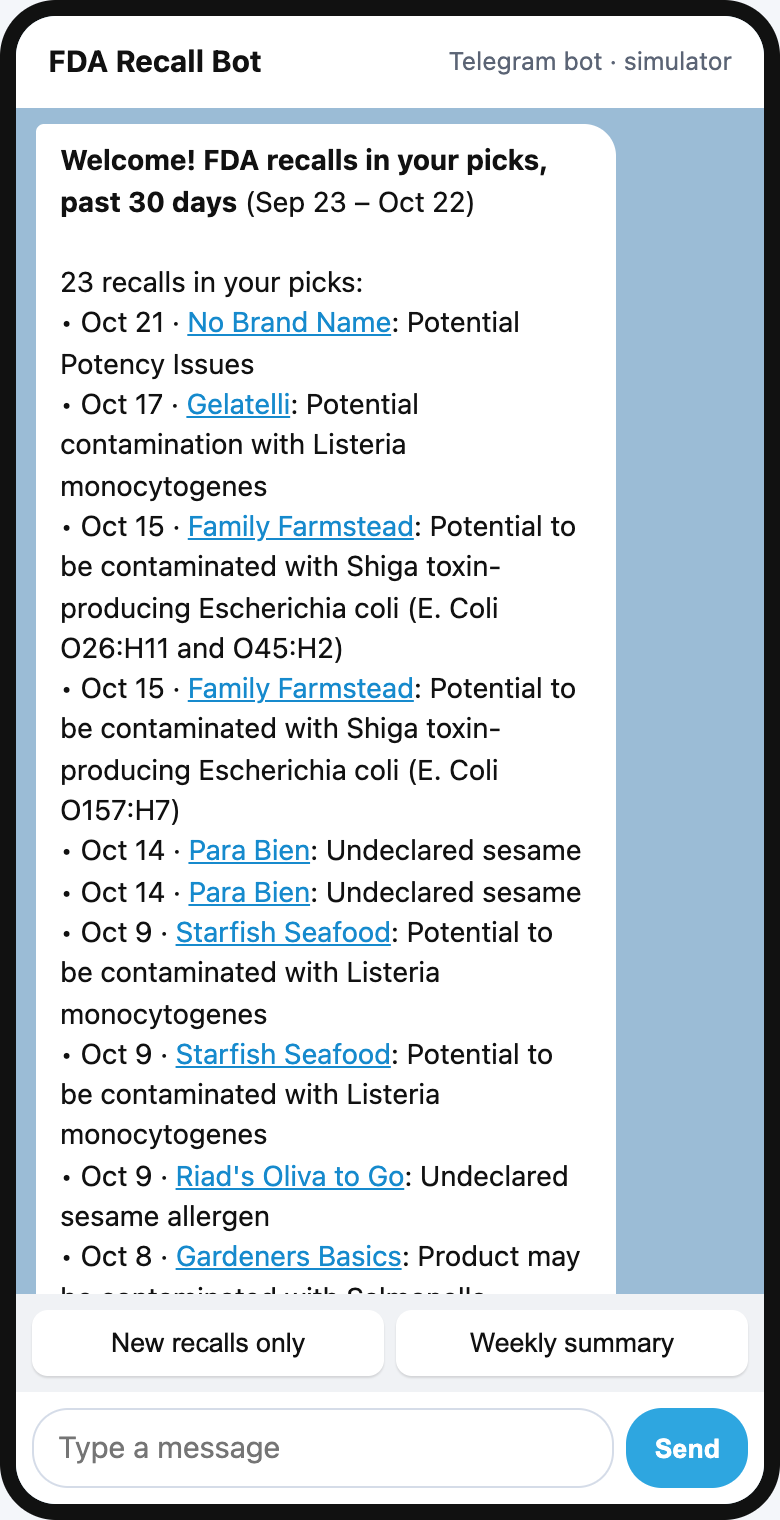
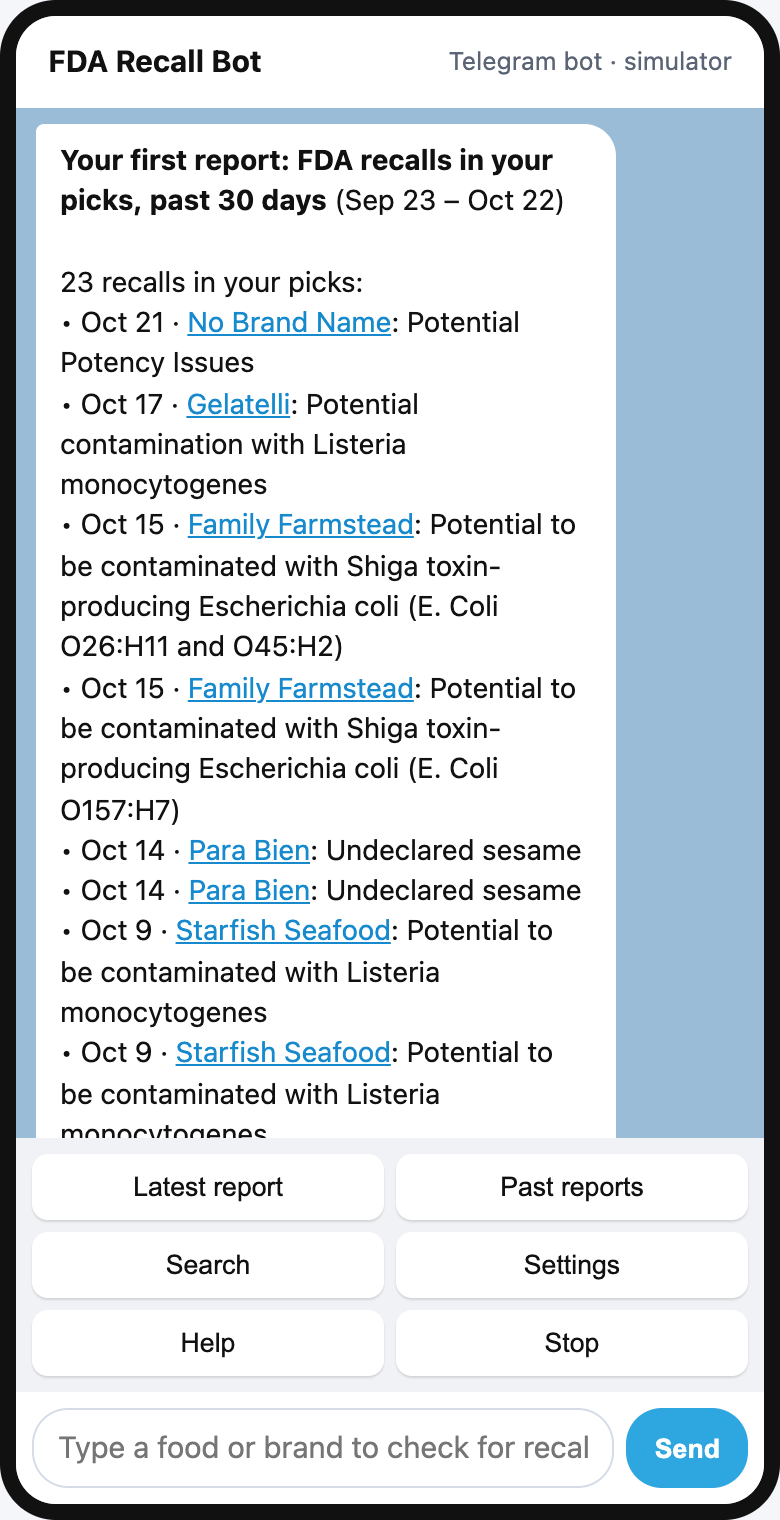
Send the 30-day first report after signup finishes, not before the last question

diff --git a/bot/core.js b/bot/core.js
@@ -93,7 +93,7 @@ Always check the lot codes and dates on the FDA notice before throwing anything 
 
 // ---------- conversation ----------
 // Returns { user, messages }: user === null means delete the record.
-// Signup: pick categories -> a welcome report of the past 30 days -> New recalls only or Weekly summary.
+// Signup: pick categories -> New recalls only or Weekly summary -> All set, then a welcome report of the past 30 days.
 // Settings later runs the same steps without the welcome report.
 export function onFollow(now) {
   const user = { step: 'groups', freq: null, groups: [], created: now, lastSent: null };
@@ -123,12 +123,8 @@ export function onText(user, input, ctx) {
     }
     if (is(t, 'done')) {
       if (!user.groups.length) return { user, messages: [askGroups(user)] };
-      const u = { ...user, step: 'freq', welcomed: true };
-      if (user.welcomed) return { user: u, messages: [askFrequency(`Your picks: ${groupNames(u)}.`)] };
-      // First signup: show what they'd have missed, then ask how to keep them posted.
-      const end = day(ctx.now);
-      const welcome = buildReport(ctx.data, u, { from: addDays(end, -29), to: end, title: 'Welcome! FDA recalls in your picks, past 30 days' });
-      return { user: u, messages: [...welcome.messages, askFrequency(null)] };
+      const u = { ...user, step: 'freq' };
+      return { user: u, messages: [askFrequency(`Your picks: ${groupNames(u)}.`)] };
     }
     const g = GROUPS.find((x) => clean(x.label) === t);
     if (g) {
@@ -143,8 +139,13 @@ export function onText(user, input, ctx) {
     if (!user.groups.length) { const u = { ...user, step: 'groups' }; return { user: u, messages: [askGroups(u)] }; }
     if (is(t, 'daily') || is(t, 'weekly')) {
       // New recalls count from now on (signup), so nobody gets the welcome report again.
-      const u = { ...user, freq: is(t, 'daily') ? 'daily' : 'weekly', step: 'done', lastSent: user.lastSent || ctx.now };
-      return { user: u, messages: [text(`All set. You'll get ${howOften(u)}.\n\nYour picks: ${groupNames(u)}.\n\nTip: type any food or brand, like "broccoli" or "Gelatelli", to see its FDA recalls from the past year.`, MAIN)] };
+      const u = { ...user, freq: is(t, 'daily') ? 'daily' : 'weekly', step: 'done', lastSent: user.lastSent || ctx.now, welcomed: true };
+      const allSet = `All set. You'll get ${howOften(u)}.\n\nYour picks: ${groupNames(u)}.\n\nTip: type any food or brand, like "broccoli" or "Gelatelli", to see its FDA recalls from the past year.`;
+      if (user.welcomed) return { user: u, messages: [text(allSet, MAIN)] };
+      // First signup (or /start): once they're set up, show what FDA recalled in their picks over the past 30 days.
+      const end = day(ctx.now);
+      const welcome = buildReport(ctx.data, u, { from: addDays(end, -29), to: end, title: 'Your first report: FDA recalls in your picks, past 30 days' });
+      return { user: u, messages: [text(`${allSet}\n\nHere's your first report:`, MAIN), ...welcome.messages] };
     }
     return { user, messages: [askFrequency('Tap one of these:')] };
   }

diff --git a/bot/worker.js b/bot/worker.js
@@ -90,7 +90,7 @@ async function handle(env, update) {
   const user = await getUser(env, id);
   const result = !user && /^\/start\b/.test(msg.text)
     ? onFollow(now)
-    : onText(user, msg.text, { now, data: user && user.step !== 'freq' ? await loadData() : null }); // reports, search, the welcome report
+    : onText(user, msg.text, { now, data: user ? await loadData() : null }); // reports, search, the welcome report (cached 10 min)
   // Browsing and searching don't change anything, so only write when the settings did (KV writes are the tightest free limit).
   if (JSON.stringify(result.user) !== JSON.stringify(user)) await saveUser(env, id, result.user);
   await sendAll(env, id, result.messages);

diff --git a/bot/sim.html b/bot/sim.html
@@ -97,7 +97,7 @@ function render(messages, from = 'bot') {
 async function say(t) {
   if (!t.trim()) return;
   render([{ type: 'text', html: esc(t) }], 'me');
-  const ready = user && user.step !== 'freq';
+  const ready = !!user;
   const r = onText(user, t, { now: new Date().toISOString(), data: ready ? await getData() : null });
   user = r.user; show(user); render(r.messages);
 }

diff --git a/README.md b/README.md
@@ -4,13 +4,13 @@ A Telegram bot that tells you about FDA recalls for the things you care about (g
 
 **Try it:** [open the bot in Telegram](https://t.me/FDA_Recall_Bot) · [web report](https://el9995.github.io/FDA-Recall-Bot/) · [bot simulator](https://el9995.github.io/FDA-Recall-Bot/bot/sim.html) (the full conversation in your browser, no Telegram needed)
 
-| Welcome report | Search | Slides | Full-screen photo |
+| First report | Search | Slides | Full-screen photo |
 |---|---|---|---|
 | ![Signup ends with a report of the past 30 days in your picks](docs/images/bot-welcome.png) | ![Typing "broccoli" finds its recalls from the past year](docs/images/bot-search.png) | ![Each recall as a photo-first slide, opened inside Telegram](docs/images/slide.png) | ![Tap a photo to read the lot code](docs/images/slide-fullscreen.png) |
 
 ## What it does
 
-- **Signup in three taps:** pick categories, get a welcome report of the past 30 days, then choose **New recalls only** (a message only when FDA posts something new in your picks, checked every morning) or **Weekly summary** (every Monday).
+- **Signup in three taps:** pick categories, choose **New recalls only** (a message only when FDA posts something new in your picks, checked every morning) or **Weekly summary** (every Monday), and get a first report of the past 30 days right away.
 - **Short reports:** every recall linked to its FDA notice, an album of FDA's product photos, and an **Open slides** button that opens the full deck inside Telegram as a Mini App.
 - **Photo first:** people recognize the package before they read the reason, so each slide leads with the photo. Tap it for full screen and swipe to the next photo, which is often the lot code.
 - **Past reports and search:** any of the last 8 weeks or 12 months, or type any food or brand to search every recall from the past year. Recalls FDA has closed are marked "closed by FDA", since a product already at home can still be affected.

diff --git a/bot/SETUP.md b/bot/SETUP.md
@@ -50,7 +50,7 @@ Then open `https://t.me/<your bot's username>` and tap **Start**.
 
 ## How it behaves
 
-- **Start:** asks which recalls (Groceries, Pet food, Supplements, Baby food, Cosmetics, Drugs & devices, or Everything), sends a welcome report of the past 30 days in those picks, then asks: **New recalls only** or **Weekly summary**. /start always runs the full signup again (picks pre-ticked); the Settings button runs the same steps without the welcome report.
+- **Start:** asks which recalls (Groceries, Pet food, Supplements, Baby food, Cosmetics, Drugs & devices, or Everything), then asks: **New recalls only** or **Weekly summary**. Once they're set up, it sends a first report of the past 30 days in their picks. /start always runs the full signup again (picks pre-ticked); the Settings button runs the same steps without the welcome report.
 - **Weekly:** every Monday around 10 am Eastern (9 am in winter; the schedule runs on UTC), the previous Monday–Sunday, even if quiet.
 - **New recalls only:** checked every morning around 10 am Eastern; a message only when FDA posted something new in their picks since the last one (counting from signup). FDA posts about 6 recalls a week, on about half of all days.
 - **Each report** is three messages, however many recalls there are: a summary with every recall linked to its FDA notice, an album of up to 10 product photos, and an **Open slides** button that opens the full slide deck inside Telegram (a Mini App), with every recall and photo.
